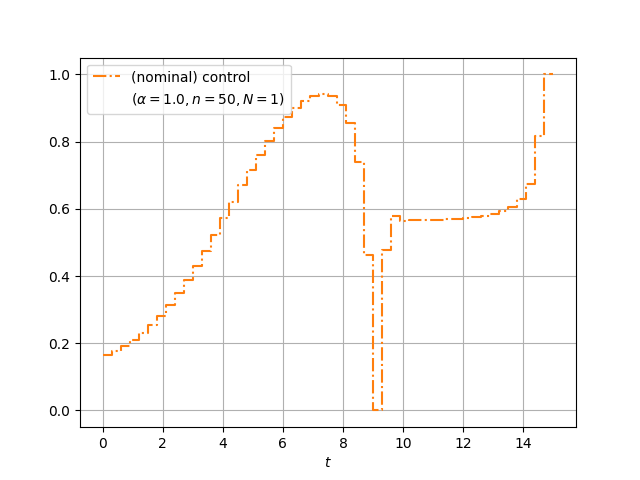
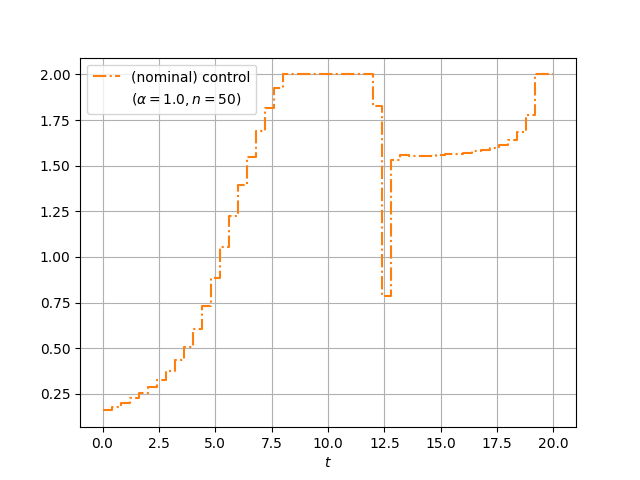
Updated fed batch reactor example.

diff --git a/demo/fed_batch_reactor/fed_batch_reactor.py b/demo/fed_batch_reactor/fed_batch_reactor.py
@@ -4,19 +4,19 @@ import numpy as np
 
 class FedBatchReactor(ensemblecontrol.ControlProblem):
     # Based on https://doi.org/10.1109/9.173155
-    # and https://doi.org/10.1201/9780429123641
+    # and section 5 in https://doi.org/10.1201/9780429123641
     def __init__(self):
 
         super().__init__()
 
         self._alpha = 1.
         self._nintervals = 50
-        self._final_time = 15.
+        self._final_time = 20.
         self._ncontrols = 1
         self._nstates = 5
 
         #TODO: Increase upper bound to 2
-        self._control_bounds = [[0], [1]]
+        self._control_bounds = [[0], [2]]
 
         self.u = MX.sym("u", 1)
         self.x = MX.sym("h", 5)

diff --git a/demo/fed_batch_reactor/saa_fed_batch_reactor.py b/demo/fed_batch_reactor/saa_fed_batch_reactor.py
@@ -81,10 +81,10 @@ if __name__ == "__main__":
     nominal_param = fed_batch_reactor.nominal_param[0]
 
     # sampler
-    sigma = 0.1
+    sigma = 0.01
 
     nparams = len(nominal_param)
-    m = 6
+    m = 10
     sampler = qmc.Sobol(d=nparams, scramble=False)
     samples = sampler.random_base2(m=m)
     samples = qmc.scale(samples, -1.0, 1.0)
